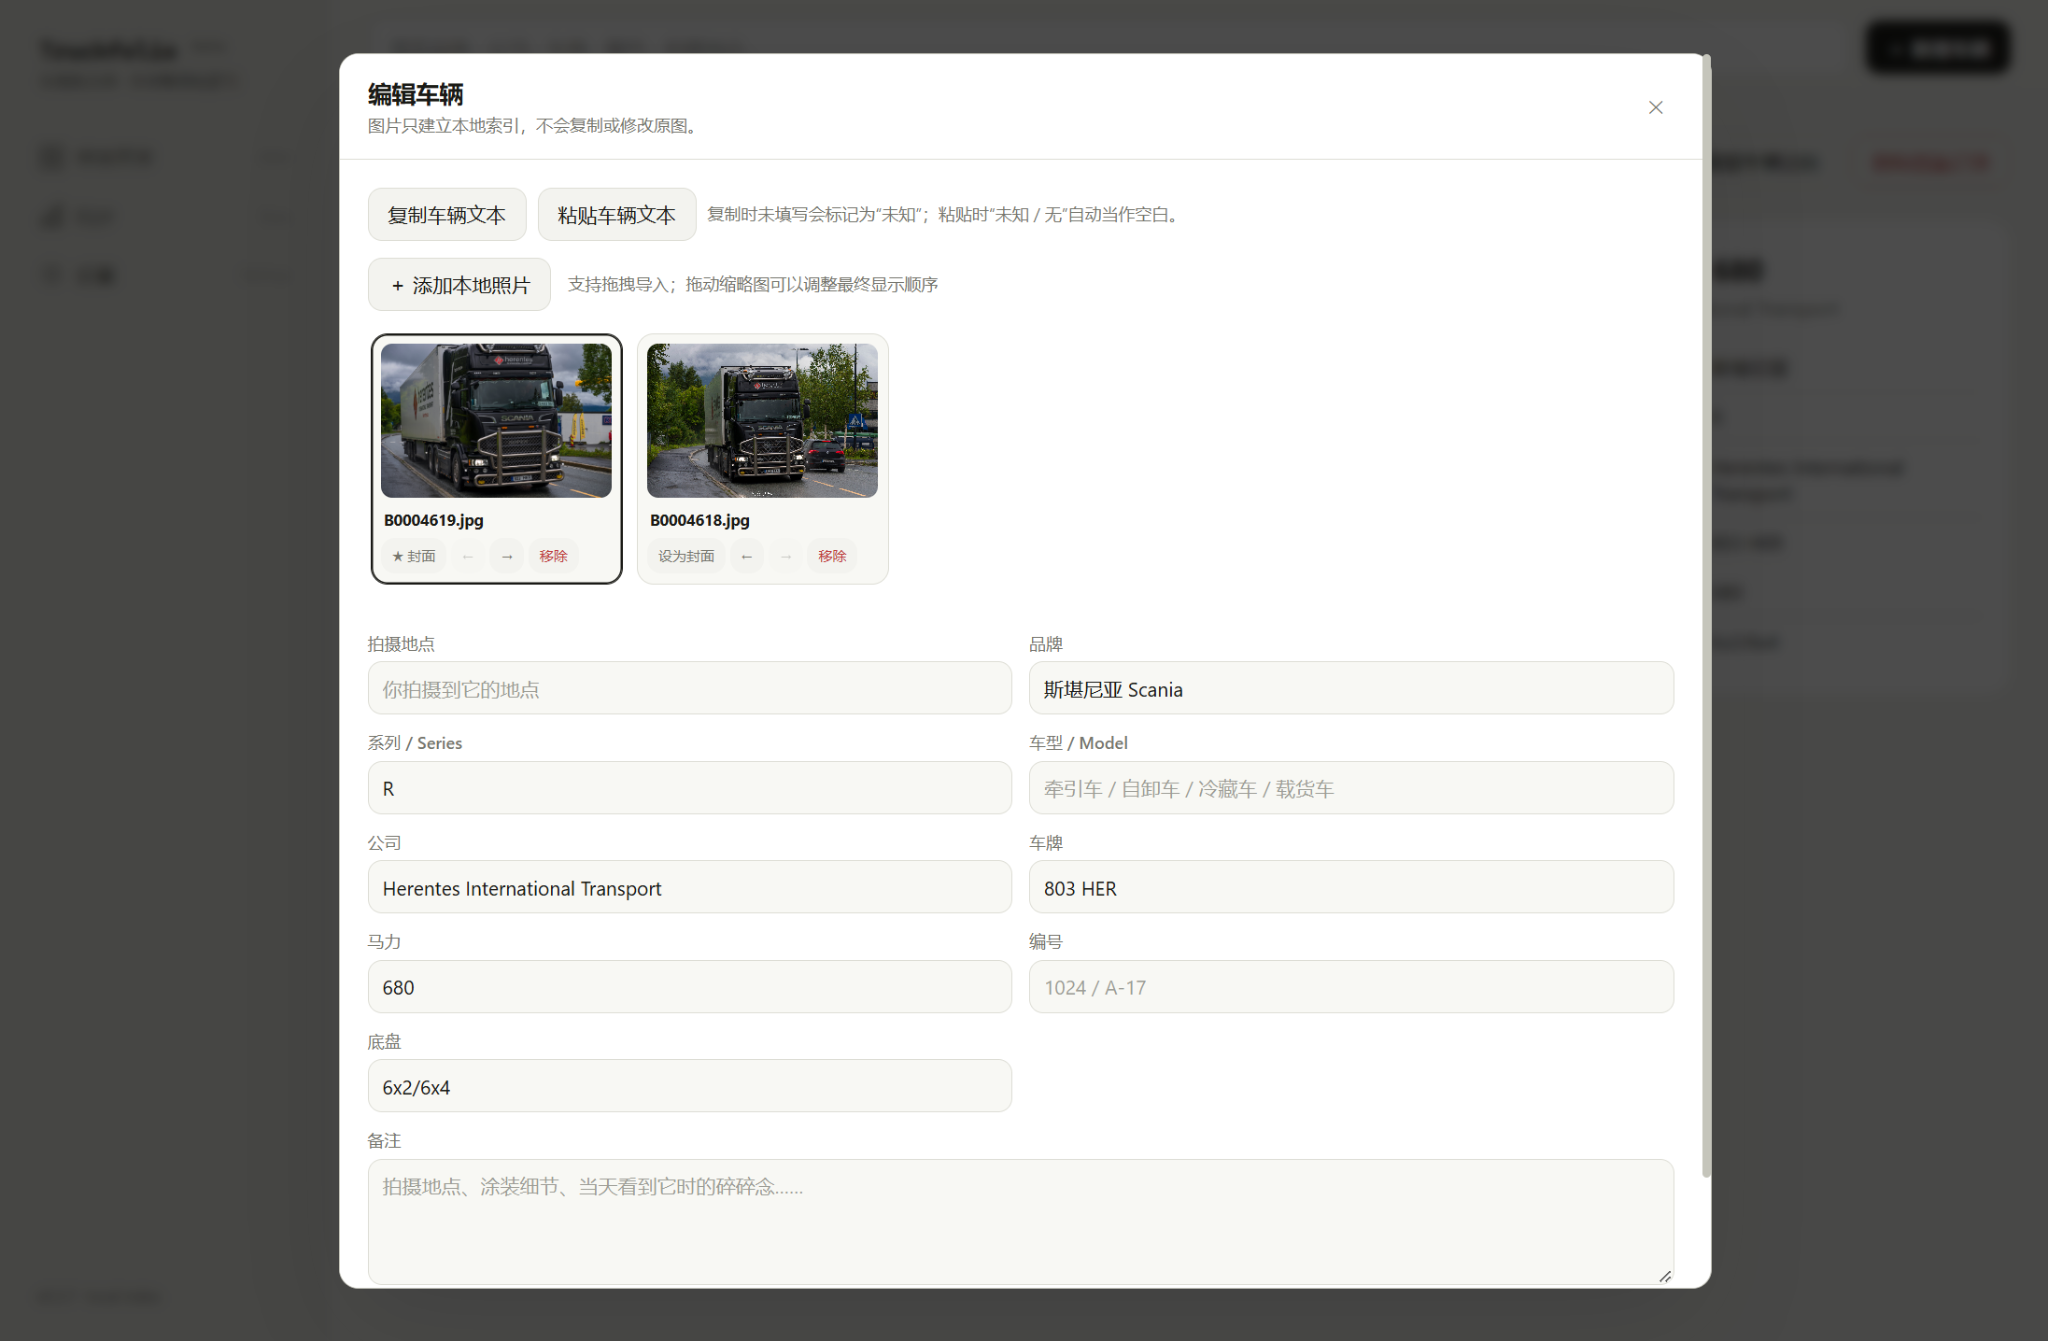
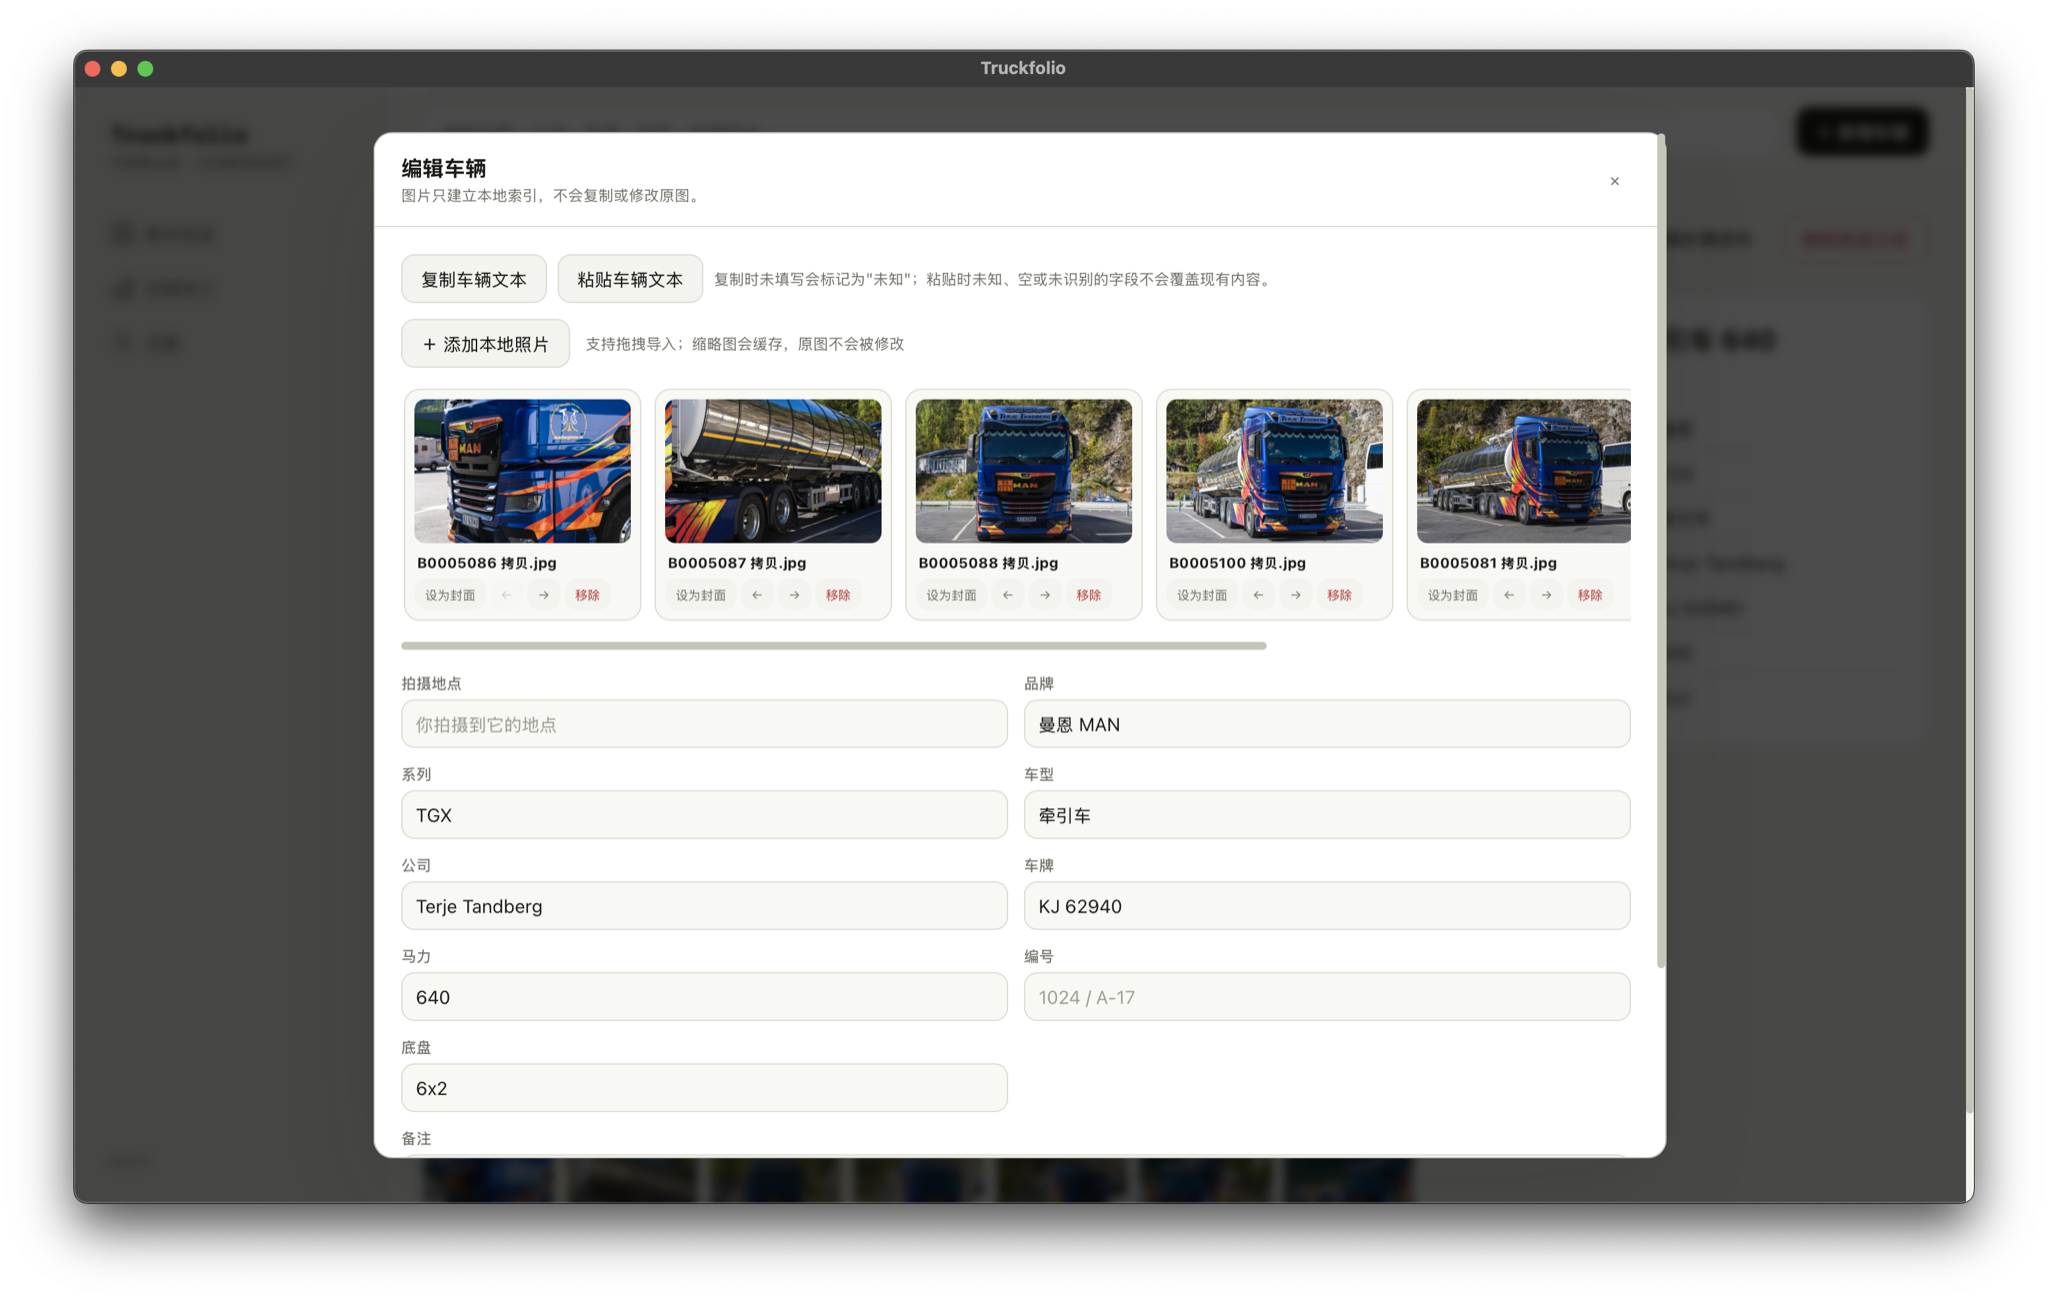
Update README for v0.4.1

diff --git a/README.md b/README.md
@@ -1,4 +1,4 @@
-# Truckfolio beta
+# Truckfolio
 
 **为卡车摄影爱好者制作。**
 
@@ -7,9 +7,7 @@ Truckfolio 是一款用于整理 **卡车摄影作品** 的本地图鉴工具。
 
 它最初为个人拍车摄影整理需求而制作，后来因为用着还挺顺手，于是顺便公开发布给有类似需求的人。
 
-> 当前版本：**v0.4.0 Beta**  
-> 当前软件界面支持 **中文 / English**。  
-> Beta 阶段仍可能偶尔有一些小虫子乱爬 🐛
+> 当前版本：**v0.4.1**。当前为正式公开版本，软件界面支持 **中文 / English**。
 
 ![Truckfolio 整体图鉴](assets/screenshots/library.png)
 
@@ -34,18 +32,14 @@ Truckfolio 的信息结构围绕卡车摄影设计，可以为每辆车记录：
 
 ### 🚛 品牌与车型数据库
 
-Truckfolio 内置卡车品牌与车型数据，并持续扩充：
+Truckfolio 内置常见卡车品牌、系列与车型资料，并持续扩充：
 
-- 扩展品牌与车型数据库
-- 新增 Tatra
-- 增加更多 Mercedes-Benz 车型
-- 增加 Scania Super 车型变体
-- 优化 Scania T 系列说明
-- 增加品牌来源信息
-- 优化品牌自动识别，精确匹配优先于部分匹配
-- 修复 MAN 可能被 Shacman 文本误识别的问题
-- 优化 MAN、DAF、JAC、UD 等短品牌名的匹配
-- 手动选择品牌后会确认当前选择，避免被自动识别覆盖；再次编辑品牌字段后恢复自动识别
+- 覆盖欧洲、亚洲、美洲等地区的常见卡车品牌
+- 提供中英文品牌名称与品牌来源信息
+- 提供车头、牵引车、载货车、厢式载货车、侧帘式载货车、平板载货车、冷藏车、集装箱运输车、集装箱侧装车等车型预设与简要说明
+- 支持品牌与系列自动补全
+- 品牌自动识别会优先精确匹配，并优化 MAN、DAF、JAC、UD 等短品牌名的识别
+- 手动选择品牌后会保留当前选择；再次编辑品牌字段后恢复自动识别
 
 ### 🗂 本地图鉴
 
@@ -59,7 +53,7 @@ Truckfolio 使用本地索引管理摄影作品。
 
 照片仍然留在原来的文件夹中。
 
-![车辆详情](assets/screenshots/vehicle-detail.png)
+需要时还可以直接定位原始照片所在位置。
 
 ### 🔎 搜索与筛选
 
@@ -102,8 +96,11 @@ Truckfolio 会根据已经整理的车辆生成本地摄影统计，包括：
 - 添加本地照片
 - 设置封面
 - 拖动调整顺序
-- 查看照片信息
+- 使用键盘左右方向键切换照片
+- 查看并定位原始照片
 - 删除单张关联照片
+
+删除车辆记录时，对应的缓存缩略图也会一起清理，原始照片不会被删除。
 
 ![编辑车辆](assets/screenshots/edit-vehicle.png)
 
@@ -130,17 +127,20 @@ Truckfolio 会根据已经整理的车辆生成本地摄影统计，包括：
 - 中英文品牌名称显示切换
 - 中文 / English 界面切换
 - 车辆信息文本复制与粘贴
+- 导入车辆文本时，未知、空白或未识别字段不会覆盖已经填写的内容
+- 优化大量照片的添加与浏览流畅度，尤其针对 Windows 环境
+- 缩略图保留原图色彩并改善边缘显示
 
 ---
 
 ## 下载
 
-请前往 GitHub **Releases** 下载最新版本。
+请前往 GitHub **[Releases](https://github.com/GaGateway/Truckfolio/releases/latest)** 下载最新版本。
 
 | 平台 | 安装包 |
 | --- | --- |
-| macOS | `.dmg` |
-| Windows | `.msi` / `.exe` |
+| macOS | `.dmg`（Apple Silicon） |
+| Windows | `.exe`（x64） |
 
 ### 系统提示
 
@@ -182,20 +182,6 @@ Windows SmartScreen 可能会对尚未建立信誉的应用显示提示。请确
 
 ---
 
-## 关于 Beta
-
-Truckfolio 目前仍处于 **Beta** 阶段。
-
-主要功能已经可以正常使用，但仍可能存在：
-
-- 偶发 Bug
-- 特定环境下的兼容性问题
-- 尚未发现的界面或数据异常
-
-如果遇到奇怪的小虫子，欢迎通过 GitHub Issues 提交问题。
-
----
-
 ## 数据与隐私
 
 Truckfolio 是一个本地应用。
@@ -233,7 +219,7 @@ Copyright © 2026 GaGateway. All rights reserved.
 
 # English
 
-## Truckfolio beta
+## Truckfolio
 
 **Built for truck photography enthusiasts.**
 
@@ -243,9 +229,9 @@ The name comes from **Truck + Portfolio**.
 
 Originally created for personal truck-photography organization, Truckfolio eventually became useful enough to be released publicly for others with similar needs.
 
-> Current version: **v0.4.0 Beta**  
-> The application interface is available in **Chinese and English**.  
-> As a Beta release, a few little bugs may still be crawling around. 🐛
+> Current version: **v0.4.1**. This is the stable public release, with an interface available in **Chinese and English**.
+
+![Truckfolio library](assets/screenshots/library-en.png)
 
 ## Features
 
@@ -268,18 +254,14 @@ Multiple photos can be associated with the same truck, with support for choosing
 
 ### 🚛 Brand and model database
 
-Truckfolio includes a built-in truck brand and model database that continues to expand:
+Truckfolio includes a built-in truck brand, series, and vehicle-type database that continues to expand:
 
-- Expanded truck brand and model coverage
-- Added Tatra
-- Added more Mercedes-Benz models
-- Added Scania Super variants
-- Improved Scania T-series description
-- Added brand origin information
-- Improved automatic brand recognition with exact matches taking priority over partial matches
-- Fixed MAN being incorrectly detected inside Shacman
-- Improved matching for short brand names such as MAN, DAF, JAC, and UD
-- Manual brand selection now confirms the current choice and prevents automatic recognition from overriding it; editing the brand field again re-enables automatic recognition
+- Covers common truck brands from Europe, Asia, the Americas, and other regions
+- Includes Chinese and English brand names with brand-origin information
+- Includes presets and short descriptions for cab units, tractor units, rigid trucks, box trucks, curtain-siders, flatbeds, refrigerated trucks, container trucks, and sideloaders
+- Supports brand and series autocomplete
+- Automatic brand recognition prioritizes exact matches and improves handling of short names such as MAN, DAF, JAC, and UD
+- Manual brand selections are preserved until the brand field is edited again
 
 ### 🗂 Local photo catalog
 
@@ -294,6 +276,8 @@ It does **not**:
 - Modify the original photos
 
 Your images stay exactly where they already are.
+
+Truckfolio can also reveal the original photo in its folder whenever needed.
 
 ### 🔎 Search and filtering
 
@@ -327,6 +311,8 @@ Truckfolio automatically generates local statistics from your catalog, including
 
 Statistics can also be used to jump directly into matching catalog results.
 
+![Photography statistics](assets/screenshots/statistics-en.png)
+
 ### 🖼 Multi-photo management
 
 Each truck entry can contain multiple photographs, with support for:
@@ -334,8 +320,13 @@ Each truck entry can contain multiple photographs, with support for:
 - Adding local photos
 - Choosing a cover image
 - Drag-and-drop ordering
-- Viewing photo information
+- Switching photos with the left and right arrow keys
+- Viewing and revealing original photos
 - Removing individual photo associations
+
+When a vehicle entry is deleted, its cached thumbnails are cleaned up automatically while the original photos remain untouched.
+
+![Edit vehicle](assets/screenshots/edit-vehicle-en.png)
 
 ### 🔍 Photo viewer
 
@@ -360,17 +351,20 @@ The photo viewer has been upgraded for smoother browsing and zooming:
 - Chinese / English brand-name display
 - Chinese / English interface language switching
 - Copying and pasting structured vehicle information
+- Unknown, empty, or unrecognized imported fields never overwrite existing values
+- Smoother importing and browsing of large photo collections, especially on Windows
+- Improved thumbnail edge rendering with faithful photo color
 
 ---
 
 ## Download
 
-Download the latest version from **GitHub Releases**.
+Download the latest version from **[GitHub Releases](https://github.com/GaGateway/Truckfolio/releases/latest)**.
 
 | Platform | Package |
 | --- | --- |
-| macOS | `.dmg` |
-| Windows | `.msi` / `.exe` |
+| macOS | `.dmg` (Apple Silicon) |
+| Windows | `.exe` (x64) |
 
 ### Installation notice
 
@@ -409,20 +403,6 @@ Keep the trailing space, drag `Truckfolio.app` directly into the Terminal window
 #### Windows
 
 Windows SmartScreen may display a warning for an application that has not yet established reputation. Verify that the installer came from this project's GitHub Releases page before deciding whether to continue.
-
----
-
-## Beta status
-
-Truckfolio is currently in **Beta**.
-
-The main functionality is usable, but the application may still contain:
-
-- Occasional bugs
-- Compatibility issues in specific environments
-- Undiscovered interface or data-related problems
-
-If you find a strange little bug, feel free to report it through GitHub Issues.
 
 ---
 
